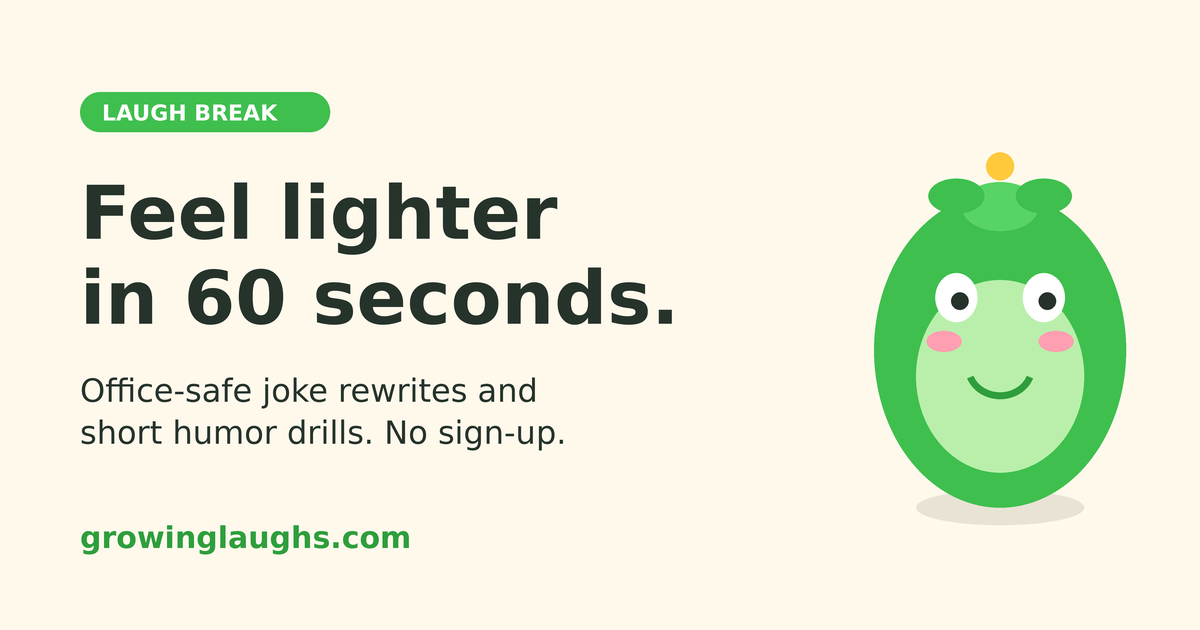
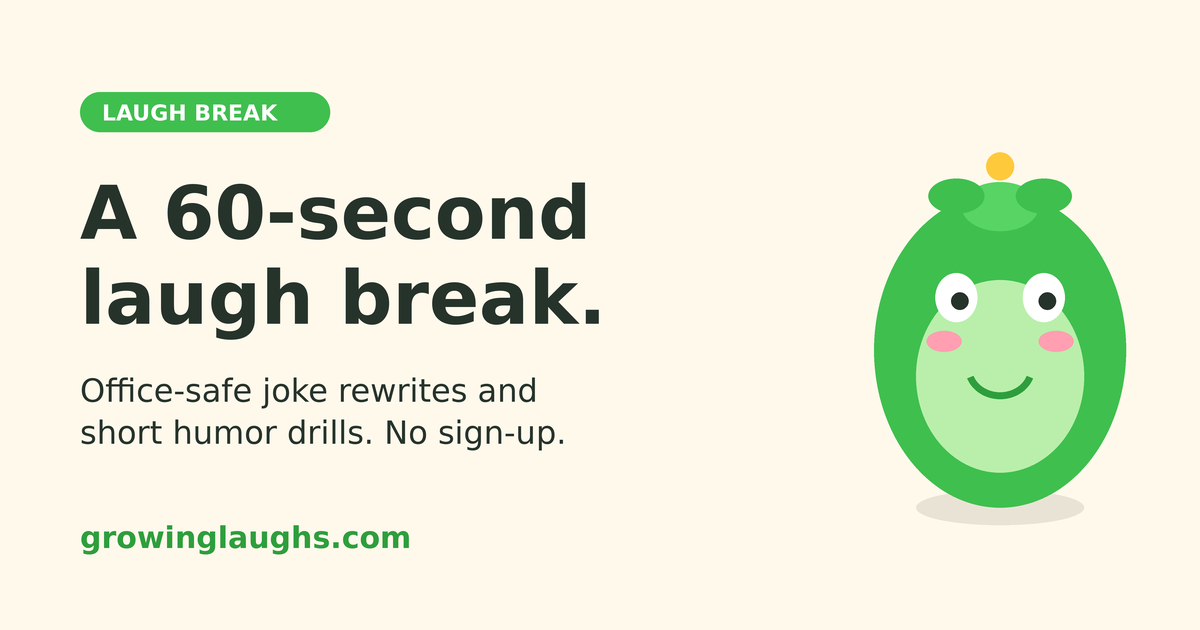
Use a factual home title: Laugh Break: a 60-second reset
The style guide validator flags 'feel lighter in 60 seconds' as an unsourced
outcome promise. The break itself is a 60-second timer, so the title and share
card now say that. Follows style guide growinglaughs.com.json.

Changed region(s): [[0.0617, 0.2714, 0.5858, 0.5429], [0.0617, 0.4222, 0.0925, 0.4524]]

diff --git a/src/worker/index.ts b/src/worker/index.ts
@@ -192,7 +192,7 @@ function shell(title: string, body: string, extraScript = "", meta: PageMeta = {
 <meta property="og:type" content="website"/><meta property="og:site_name" content="LaughPath"/>
 <meta property="og:title" content="${attr(fullTitle)}"/><meta property="og:description" content="${attr(description)}"/>
 <meta property="og:image" content="${SITE}/og-card.png"/><meta property="og:image:width" content="1200"/><meta property="og:image:height" content="630"/>
-<meta property="og:image:alt" content="Sprig the Giggle Sprout beside the words: Feel lighter in 60 seconds."/>
+<meta property="og:image:alt" content="Sprig the Giggle Sprout beside the words: A 60-second laugh break."/>
 <meta name="twitter:card" content="summary_large_image"/><meta name="twitter:image" content="${SITE}/og-card.png"/>
 <link rel="icon" href="/favicon.svg"/>${ld}
 <style>${BRAND}</style>
@@ -309,7 +309,7 @@ const PAGES: Record<string, () => string> = {
       });
       document.getElementById('break-done')?.addEventListener('click',()=>window.GiggleSprout?.celebrate());`,
       {
-        fullTitle: "Laugh Break: feel lighter in 60 seconds | LaughPath",
+        fullTitle: "Laugh Break: a 60-second reset | LaughPath",
         description: "A free 60-second Laugh Break, office-safe joke rewrites and short humor drills for adults. No sign-up. Not therapy.",
         jsonLd: {
           "@context": "https://schema.org",
